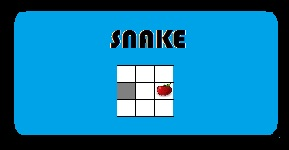
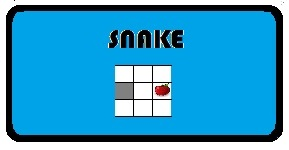
Updates on 13.07: *Redesigned the current buttons graphics *Added a button for chess setup; the game itself is not in progress yet though *Added a file for progress reports

Changed region(s): [[0.0, 0.0, 1.0, 1.0], [0.3737, 0.4267, 0.6228, 0.8], [0.3426, 0.1867, 0.654, 0.32]]

diff --git a/mavenmodule/src/main/java/Launcher.java b/mavenmodule/src/main/java/Launcher.java
@@ -33,8 +33,12 @@ public class Launcher extends Application{
 
         MenuButton snakeButton = new MenuButton(new Image("snakegraphic.jpg"));
         snakeButton.setOnAction(event -> appStage.setScene(new snake.gui.SetupScene(new Group(), appStage)));
+        MenuButton chessButton = new MenuButton(new Image("chessgraphic.jpg"));
+        chessButton.setOnAction(event -> appStage.setScene(new chess.SetupScene(new Group(), appStage)));
         List<MenuButton> gamesMenuButtons = new ArrayList<>();
         gamesMenuButtons.add(snakeButton);
+        gamesMenuButtons.add(chessButton);
+
         MenuVBox gamesMenu = new MenuVBox(gamesMenuButtons);
 
         MenuVBox appsMenu = new MenuVBox();

diff --git a/mavenmodule/src/main/java/chess/SetupScene.java b/mavenmodule/src/main/java/chess/SetupScene.java
@@ -1,0 +1,18 @@
+package chess;
+
+import javafx.scene.Group;
+import javafx.scene.Scene;
+import javafx.stage.Stage;
+
+public class SetupScene extends Scene{
+    public SetupScene(Group rootGroup, Stage stage) {
+        super(rootGroup);
+        stage.setTitle("Setup");
+        //TODO: add options to setup: choose chessboard color, choose timecontrol,
+        stage.setMaxHeight(300);
+        stage.setMinHeight(300);
+        stage.setMaxWidth(400);
+        stage.setMinWidth(400);
+        stage.show();
+    }
+}

diff --git a/mavenmodule/src/main/java/chess/Launcher.java b/mavenmodule/src/main/java/chess/Launcher.java
@@ -1,0 +1,15 @@
+package chess;
+
+import javafx.application.Application;
+import javafx.scene.Group;
+import javafx.stage.Stage;
+
+public class Launcher extends Application {
+    public static void main(String[] args){
+        launch(args);
+    }
+    @Override
+    public void start(Stage primaryStage) throws Exception {
+        primaryStage.setScene(new SetupScene(new Group(), primaryStage));
+    }
+}
